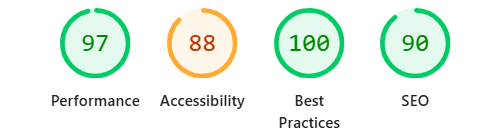
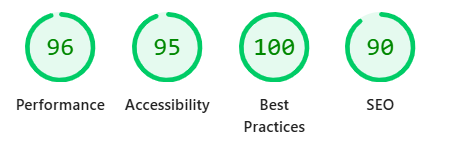
fixed styling

diff --git a/static/css/style.css b/static/css/style.css
@@ -22,12 +22,11 @@ main {
     background-color: var(--primary-background-colour);
     font-family: var(--primary-font);
     color: var(--primary-text-colour);
-    padding-top: 100px;
     padding-left: 30px;
     padding-right: 30px;
     background-size: cover;
     width: 100%;
-    min-height: 97vh;
+    /* min-height: 97vh; */
     position: relative;
 }
 

diff --git a/staticfiles/css/style.css b/staticfiles/css/style.css
@@ -22,12 +22,11 @@ main {
     background-color: var(--primary-background-colour);
     font-family: var(--primary-font);
     color: var(--primary-text-colour);
-    padding-top: 100px;
     padding-left: 30px;
     padding-right: 30px;
     background-size: cover;
     width: 100%;
-    min-height: 97vh;
+    /* min-height: 97vh; */
     position: relative;
 }
 
